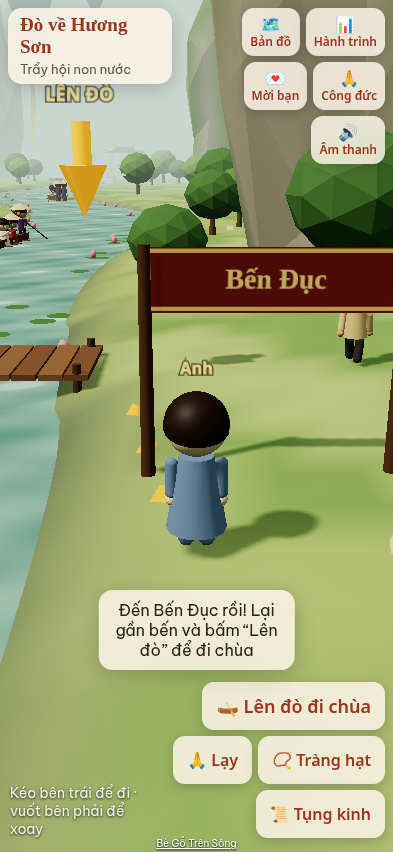
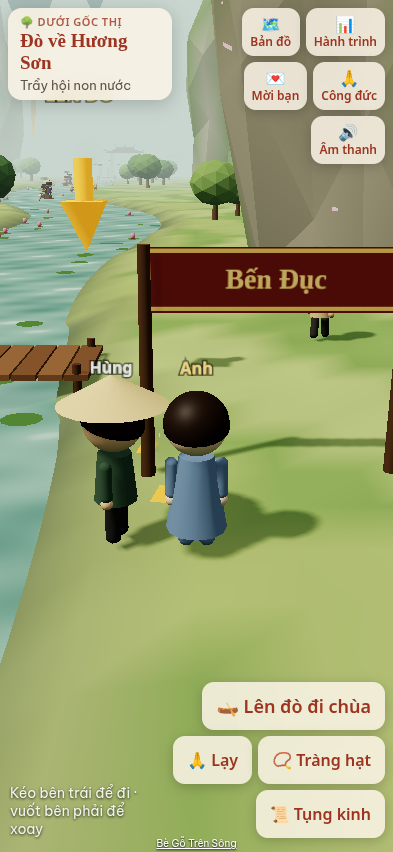
Rebrand: Dưới Gốc Thị · Bầu trời dưới gốc cây thị

diff --git a/shared/engine.js b/shared/engine.js
@@ -1,4 +1,4 @@
-// Khong Gian Viet - small 3D engine (our own code). three.js r164 vendored.
+// Dưới Gốc Thị - small 3D engine (our own code). three.js r164 vendored.
 import * as THREE from './three.module.min.js?v=5';
 export { THREE };
 export const isMobile = matchMedia('(pointer:coarse)').matches || Math.min(innerWidth, innerHeight) < 600;
@@ -177,7 +177,7 @@ const CSS = `
 .kg-joy i{position:absolute;left:50%;top:50%;width:52px;height:52px;margin:-26px;border-radius:50%;background:#ffffffcc;box-shadow:0 2px 8px #0004}
 .kg-hint{position:absolute;left:10px;bottom:max(14px,env(safe-area-inset-bottom));font-size:14px;color:#fff;text-shadow:0 1px 3px #000;max-width:38vw;opacity:.85}
 .kg-toast{position:absolute;bottom:calc(130px + env(safe-area-inset-bottom));left:50%;z-index:12;pointer-events:none;transform:translateX(-50%);background:var(--panel);padding:10px 16px;border-radius:14px;font-size:16px;box-shadow:0 4px 18px #0003;opacity:0;transition:opacity .4s;max-width:90vw;text-align:center}
-.kg-feed{position:absolute;left:8px;top:calc(118px + env(safe-area-inset-top));pointer-events:none;font-size:12px;color:#fff;text-shadow:0 1px 3px #000;max-width:58vw;display:flex;flex-direction:column;gap:3px}
+.kg-feed{position:absolute;left:8px;top:calc(134px + env(safe-area-inset-top));pointer-events:none;font-size:12px;color:#fff;text-shadow:0 1px 3px #000;max-width:58vw;display:flex;flex-direction:column;gap:3px}
 .kg-feed div{animation:kgf 7s forwards}@keyframes kgf{0%{opacity:0;transform:translateX(-10px)}8%,80%{opacity:1;transform:none}100%{opacity:0}}
 .kg-modal{position:absolute;inset:0;background:#0007;display:none;align-items:center;justify-content:center;pointer-events:auto;z-index:20}
 .kg-card{width:min(92vw,420px);max-height:84vh;overflow:auto;background:var(--panelSolid);border-radius:18px;padding:18px;box-shadow:0 20px 60px #0008;animation:kgpop .35s}
@@ -208,7 +208,7 @@ const CSS = `
 export function makeUI(theme) {
   const st = document.createElement('style'); st.textContent = CSS + `:root{--accent:${theme.accent};--panel:${theme.panel};--panelSolid:${theme.panelSolid};--glow:${theme.glow}}`; document.head.appendChild(st);
   const ui = document.createElement('div'); ui.className = 'kg-ui';
-  ui.innerHTML = `<div class="kg-top"><div class="kg-title pe"><b>${theme.title}</b><small id="kg-sub">${theme.sub || ''}</small></div><div class="kg-icons" id="kg-icons"></div></div>
+  ui.innerHTML = `<div class="kg-top"><div class="kg-title pe"><a href="../" class="kg-brand" title="Dưới Gốc Thị · Bầu trời dưới gốc cây thị" style="display:block;font:600 11px system-ui;letter-spacing:.5px;color:var(--accent);opacity:.8;text-decoration:none;margin-bottom:1px">🌳 DƯỚI GỐC THỊ</a><b>${theme.title}</b><small id="kg-sub">${theme.sub || ''}</small></div><div class="kg-icons" id="kg-icons"></div></div>
   <div class="kg-feed" id="kg-feed"></div><div class="kg-toast" id="kg-toast"></div>
   <div class="kg-hint" id="kg-hint">${isMobile ? 'Kéo bên trái để đi · vuốt bên phải để xoay' : 'WASD / phím mũi tên để đi · kéo chuột để xoay · E để tương tác'}</div>
   <div class="kg-acts"><button class="kg-btn main pe" id="kg-ctx" style="display:none"></button><div class="row" id="kg-acts"></div></div>
@@ -393,10 +393,10 @@ export function mapView(W, ui, areas, title = 'Bản đồ') {
 }
 export function shareInvite(ui, { name, text, place }) {
   const u = new URL(location.href); u.search = ''; u.searchParams.set('ref', name || 'ban'); if (place) u.searchParams.set('o', place); const url = u.toString();
-  const msg = `${text} ${url}`;
+  text = `${text} · Dưới Gốc Thị – Bầu trời dưới gốc cây thị`; const msg = `${text} ${url}`;
   if (navigator.share) navigator.share({ title: document.title, text, url }).catch(() => { });
   else navigator.clipboard?.writeText(msg).then(() => { const n = ui.$('kg-card').querySelector('#kg-copied'); if (n) n.textContent = '✓ Đã chép link'; }).catch(() => { });
-  ui.modal(`<h2>Mời bạn cùng đến</h2><p style="font-size:14px;line-height:1.5">${text}</p><input class="kg-in" readonly value="${url}" onclick="this.select()"><p id="kg-copied" style="font-size:14px;color:var(--accent);margin:6px 0 0"></p><p style="font-size:12px;opacity:.7;margin-top:8px">Người bạn mời sẽ thấy lời chào từ bạn khi bấm vào link.</p>
+  ui.modal(`<h2>Mời bạn cùng đến</h2><p style="text-align:center;font-size:13px;opacity:.75;margin:0 0 6px">Dưới Gốc Thị · Bầu trời dưới gốc cây thị</p><p style="font-size:14px;line-height:1.5">${text}</p><input class="kg-in" readonly value="${url}" onclick="this.select()"><p id="kg-copied" style="font-size:14px;color:var(--accent);margin:6px 0 0"></p><p style="font-size:12px;opacity:.7;margin-top:8px">Người bạn mời sẽ thấy lời chào từ bạn khi bấm vào link.</p>
   <div style="display:flex;gap:8px;margin-top:10px;justify-content:center"><a class="kg-btn" style="text-decoration:none" target="_blank" rel="noopener" href="https://www.facebook.com/sharer/sharer.php?u=${encodeURIComponent(url)}">Facebook</a><a class="kg-btn" style="text-decoration:none" target="_blank" rel="noopener" href="https://zalo.me/share?url=${encodeURIComponent(url)}">Zalo</a></div>`);
 }
 export function refGreeting(ui, fmt) { const r = new URLSearchParams(location.search).get('ref'); if (r) setTimeout(() => ui.toast(fmt(r.slice(0, 20)), 5000), 1500); }

diff --git a/maugiao/index.html b/maugiao/index.html
@@ -1,5 +1,5 @@
 <!doctype html><html lang="vi"><head><meta charset="utf-8"><meta name="viewport" content="width=device-width,initial-scale=1,viewport-fit=cover,user-scalable=no">
-<title>Lớp Mẫu Giáo Ngày Xưa · Bè Gỗ Trên Sông</title><link rel="icon" href="icon-192.png"><link rel="manifest" href="manifest.webmanifest"><meta name="theme-color" content="#c0392b"><link rel="apple-touch-icon" href="icon-192.png"><meta name="apple-mobile-web-app-capable" content="yes"><meta name="mobile-web-app-capable" content="yes">
+<title>Lớp Mẫu Giáo Ngày Xưa · Dưới Gốc Thị</title><link rel="icon" href="icon-192.png"><link rel="manifest" href="manifest.webmanifest"><meta name="theme-color" content="#c0392b"><link rel="apple-touch-icon" href="icon-192.png"><meta name="apple-mobile-web-app-capable" content="yes"><meta name="mobile-web-app-capable" content="yes">
 <meta name="description" content="Trở về lớp mẫu giáo thập niên 90 bằng 3D: đánh trống trường, hát đồng dao, chơi xích đu dưới gốc phượng, nhận bông hoa bé ngoan.">
 <style>html,body{margin:0;height:100%;overflow:hidden;background:#fbeed2}#load{position:fixed;inset:0;display:flex;flex-direction:column;align-items:center;justify-content:center;background:linear-gradient(#fff5dc,#ffd9b0);font-family:Georgia,serif;color:#b8361f;z-index:99;transition:opacity .6s}#load b{font-size:28px}#load small{font-family:system-ui;color:#6a4a2a;margin-top:8px}</style></head>
 <body><div id="load"><b>Lớp Mẫu Giáo Ngày Xưa</b><small>Cô đang mở cổng trường…</small></div>

diff --git a/dovehuongson/index.html b/dovehuongson/index.html
@@ -1,5 +1,5 @@
 <!doctype html><html lang="vi"><head><meta charset="utf-8"><meta name="viewport" content="width=device-width,initial-scale=1,viewport-fit=cover,user-scalable=no">
-<title>Đò về Hương Sơn · Bè Gỗ Trên Sông</title><link rel="icon" href="icon-192.png"><link rel="manifest" href="manifest.webmanifest"><meta name="theme-color" content="#9c3420"><link rel="apple-touch-icon" href="icon-192.png"><meta name="apple-mobile-web-app-capable" content="yes"><meta name="mobile-web-app-capable" content="yes">
+<title>Đò về Hương Sơn · Dưới Gốc Thị</title><link rel="icon" href="icon-192.png"><link rel="manifest" href="manifest.webmanifest"><meta name="theme-color" content="#9c3420"><link rel="apple-touch-icon" href="icon-192.png"><meta name="apple-mobile-web-app-capable" content="yes"><meta name="mobile-web-app-capable" content="yes">
 <meta name="description" content="Trẩy hội Hương Sơn 3D: ngồi đò trên suối, lên chùa thắp hương, rung chuông, xin lộc, thả hoa đăng cùng mọi người.">
 <style>html,body{margin:0;height:100%;overflow:hidden;background:#cfd8cc}#load{position:fixed;inset:0;display:flex;flex-direction:column;align-items:center;justify-content:center;background:linear-gradient(#f3ead8,#cfdccb);font-family:Georgia,serif;color:#7a2e1c;z-index:99;transition:opacity .6s}#load b{font-size:30px}#load small{font-family:system-ui;color:#5b4a36;margin-top:8px}</style></head>
 <body><div id="load"><b>Đò về Hương Sơn</b><small>Đang mở cổng chùa…</small></div>

diff --git a/trianlietsi/index.html b/trianlietsi/index.html
@@ -1,5 +1,5 @@
 <!doctype html><html lang="vi"><head><meta charset="utf-8"><meta name="viewport" content="width=device-width,initial-scale=1,viewport-fit=cover,user-scalable=no">
-<title>Tri Ân Liệt Sĩ · Nghĩa trang tưởng niệm</title><link rel="icon" href="icon-192.png"><link rel="manifest" href="manifest.webmanifest"><meta name="theme-color" content="#8a2a20"><link rel="apple-touch-icon" href="icon-192.png"><meta name="apple-mobile-web-app-capable" content="yes"><meta name="mobile-web-app-capable" content="yes">
+<title>Tri Ân Liệt Sĩ · Dưới Gốc Thị</title><link rel="icon" href="icon-192.png"><link rel="manifest" href="manifest.webmanifest"><meta name="theme-color" content="#8a2a20"><link rel="apple-touch-icon" href="icon-192.png"><meta name="apple-mobile-web-app-capable" content="yes"><meta name="mobile-web-app-capable" content="yes">
 <meta name="description" content="Không gian tưởng niệm 3D: thắp hương, đặt hoa, mặc niệm và gửi lời tri ân các anh hùng liệt sĩ.">
 <style>html,body{margin:0;height:100%;overflow:hidden;background:#2d2a35}#load{position:fixed;inset:0;display:flex;flex-direction:column;align-items:center;justify-content:center;background:linear-gradient(#2b3350,#7a5a58);font-family:Georgia,serif;color:#f5e6c8;z-index:99;transition:opacity .8s}#load b{font-size:28px;letter-spacing:1px}#load small{font-family:system-ui;opacity:.75;margin-top:8px}</style></head>
 <body><div id="load"><b>Tri Ân Liệt Sĩ</b><small>Xin giữ lòng thành kính…</small></div>

diff --git a/index.html b/index.html
@@ -1,1 +1,1 @@
-<!doctype html><html lang="vi"><head><meta charset="utf-8"><meta name="viewport" content="width=device-width,initial-scale=1"><title>Không Gian Việt</title><style>body{font-family:sans-serif;background:#1b2a24;color:#f3ead7;text-align:center;padding:40px 16px}a{display:block;margin:18px auto;max-width:360px;padding:18px;border-radius:14px;background:#c79a3b;color:#1b1206;font-size:20px;text-decoration:none;font-weight:bold}</style></head><body><h1>Không Gian Việt</h1><a href="dovehuongson/">Đò về Hương Sơn</a><a href="maugiao/">Lớp Mẫu Giáo Ngày Xưa</a><a href="trianlietsi/">Tri Ân Liệt Sĩ</a></body></html>
+<!doctype html><html lang="vi"><head><meta charset="utf-8"><meta name="viewport" content="width=device-width,initial-scale=1"><title>Dưới Gốc Thị · Bầu trời dưới gốc cây thị</title><style>body{font-family:sans-serif;background:#1b2a24;color:#f3ead7;text-align:center;padding:40px 16px}a{display:block;margin:18px auto;max-width:360px;padding:18px;border-radius:14px;background:#c79a3b;color:#1b1206;font-size:20px;text-decoration:none;font-weight:bold}</style></head><body><h1>Dưới Gốc Thị</h1><p style="margin-top:-8px;font-style:italic">Bầu trời dưới gốc cây thị</p><a href="dovehuongson/">Đò về Hương Sơn</a><a href="maugiao/">Lớp Mẫu Giáo Ngày Xưa</a><a href="trianlietsi/">Tri Ân Liệt Sĩ</a></body></html>

diff --git a/sw.js b/sw.js
@@ -1,4 +1,4 @@
-// Không Gian Việt – offline cache (network-first for pages, cache-first for static assets)
+// Dưới Gốc Thị – offline cache (network-first for pages, cache-first for static assets)
 const V = 'kg-v5';
 const CORE = ['./', './shared/engine.js?v=5', './shared/three.module.min.js?v=5',
   './dovehuongson/', './dovehuongson/main.js?v=5', './maugiao/', './maugiao/main.js?v=5', './trianlietsi/', './trianlietsi/main.js?v=5'];
